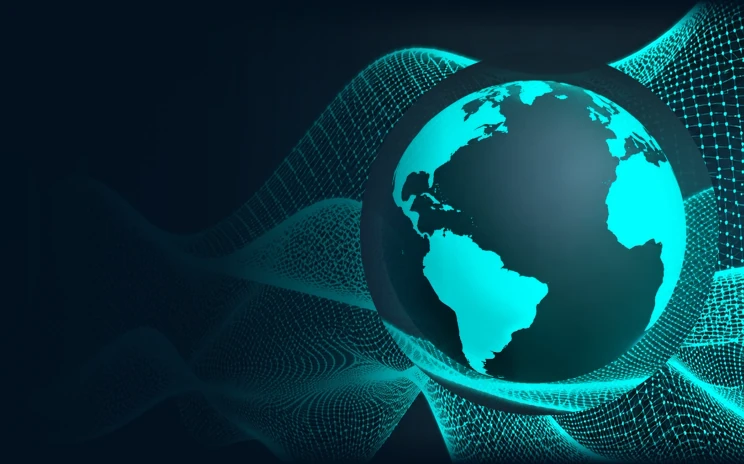
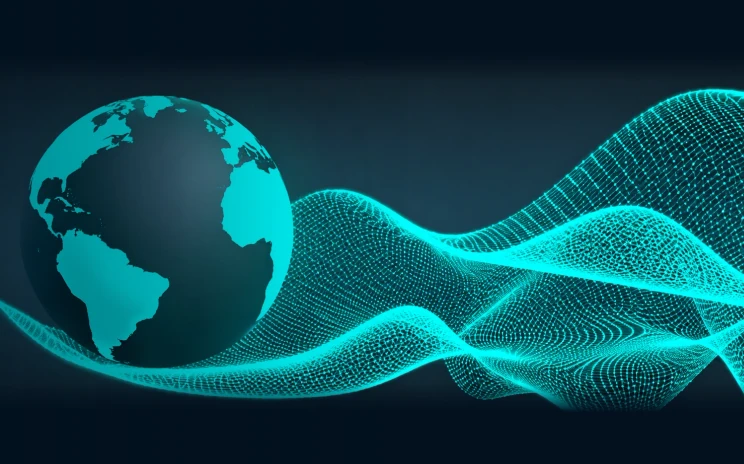
fix(profile): restore left globe header composition

diff --git a/src/styles.css b/src/styles.css
@@ -14770,7 +14770,7 @@ body:has(.dashboard-v2--applications) .navbar-glass.scrolled {
   border-bottom-color: rgba(103, 232, 249, 0.62);
   background-color: #03111f;
   background-image: url("assets/images/jm-profile-header-cyan-composed.webp");
-  background-position: center;
+  background-position: left center;
   background-size: cover;
   background-repeat: no-repeat;
   box-shadow:
@@ -14798,11 +14798,10 @@ body:has(.dashboard-v2--applications) .navbar-glass.scrolled {
   pointer-events: none;
   background: linear-gradient(
     90deg,
-    rgba(3, 17, 31, 0.98) 0%,
-    rgba(3, 17, 31, 0.94) 22%,
-    rgba(3, 17, 31, 0.62) 30%,
-    rgba(3, 17, 31, 0.10) 34%,
-    transparent 39%,
+    rgba(3, 17, 31, 0.16) 0%,
+    rgba(3, 17, 31, 0.10) 18%,
+    rgba(3, 17, 31, 0.04) 30%,
+    transparent 40%,
     transparent 100%
   );
 }
@@ -14823,11 +14822,11 @@ body:has(.dashboard-v2--applications) .navbar-glass.scrolled {
   .layout-profile-command .dashboard-v2__header::after {
     background: linear-gradient(
       90deg,
-      rgba(3, 17, 31, 0.98) 0%,
-      rgba(3, 17, 31, 0.96) 30%,
-      rgba(3, 17, 31, 0.70) 44%,
-      rgba(3, 17, 31, 0.16) 58%,
-      transparent 68%,
+      rgba(3, 17, 31, 0.42) 0%,
+      rgba(3, 17, 31, 0.34) 30%,
+      rgba(3, 17, 31, 0.22) 60%,
+      rgba(3, 17, 31, 0.10) 80%,
+      transparent 95%,
       transparent 100%
     );
   }
@@ -14843,6 +14842,9 @@ body:has(.dashboard-v2--applications) .navbar-glass.scrolled {
 
 .layout-profile-command .dashboard-v2__header > div:first-child > p:last-child {
   color: #c5edf5;
+  text-shadow:
+    0 1px 2px rgba(0, 6, 14, 0.86),
+    0 2px 14px rgba(0, 6, 14, 0.72);
 }
 
 .layout-profile-command .dashboard-v2__header .ui-badge {

diff --git a/src/components/ProfileCommandCenter.test.tsx b/src/components/ProfileCommandCenter.test.tsx
@@ -40,6 +40,7 @@ describe('JM-PROFILE-UX-01: Profile Command Center shell', () => {
     expect(css).toContain('background-size: cover');
     expect(css).toContain('min-height: 190px');
     expect(css).toContain('jm-profile-header-cyan-composed-mobile.webp');
+    expect(css).toContain('background-position: left center');
     expect(css).toContain('background-position: center');
     expect(css).toContain('profile-particle-drift');
     expect(css).toContain('prefers-reduced-motion: reduce');
